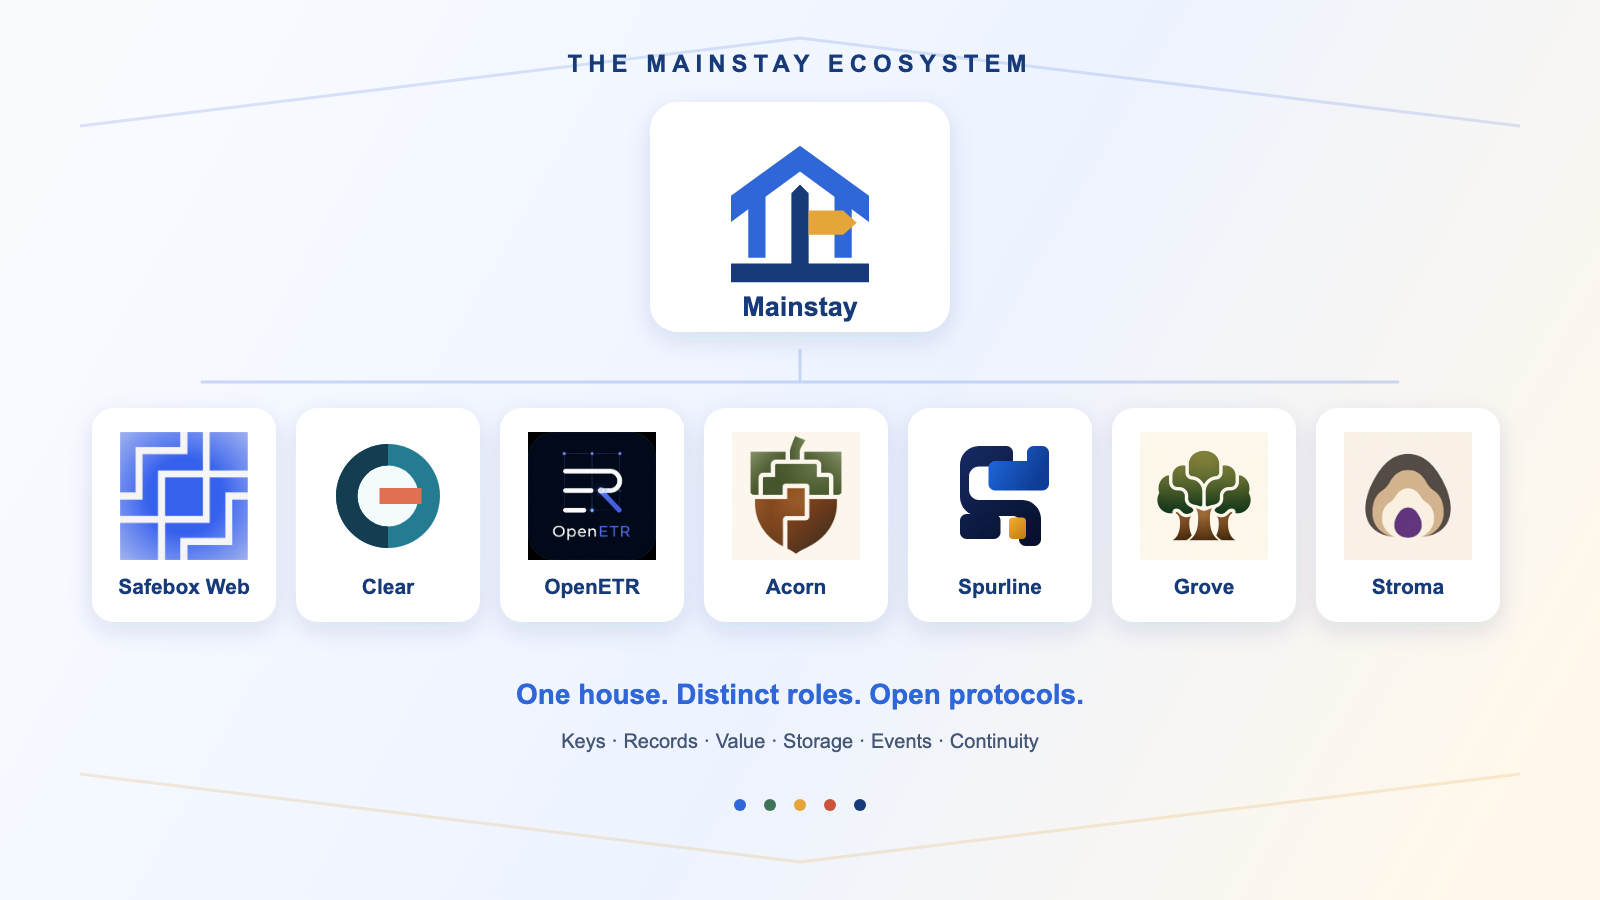
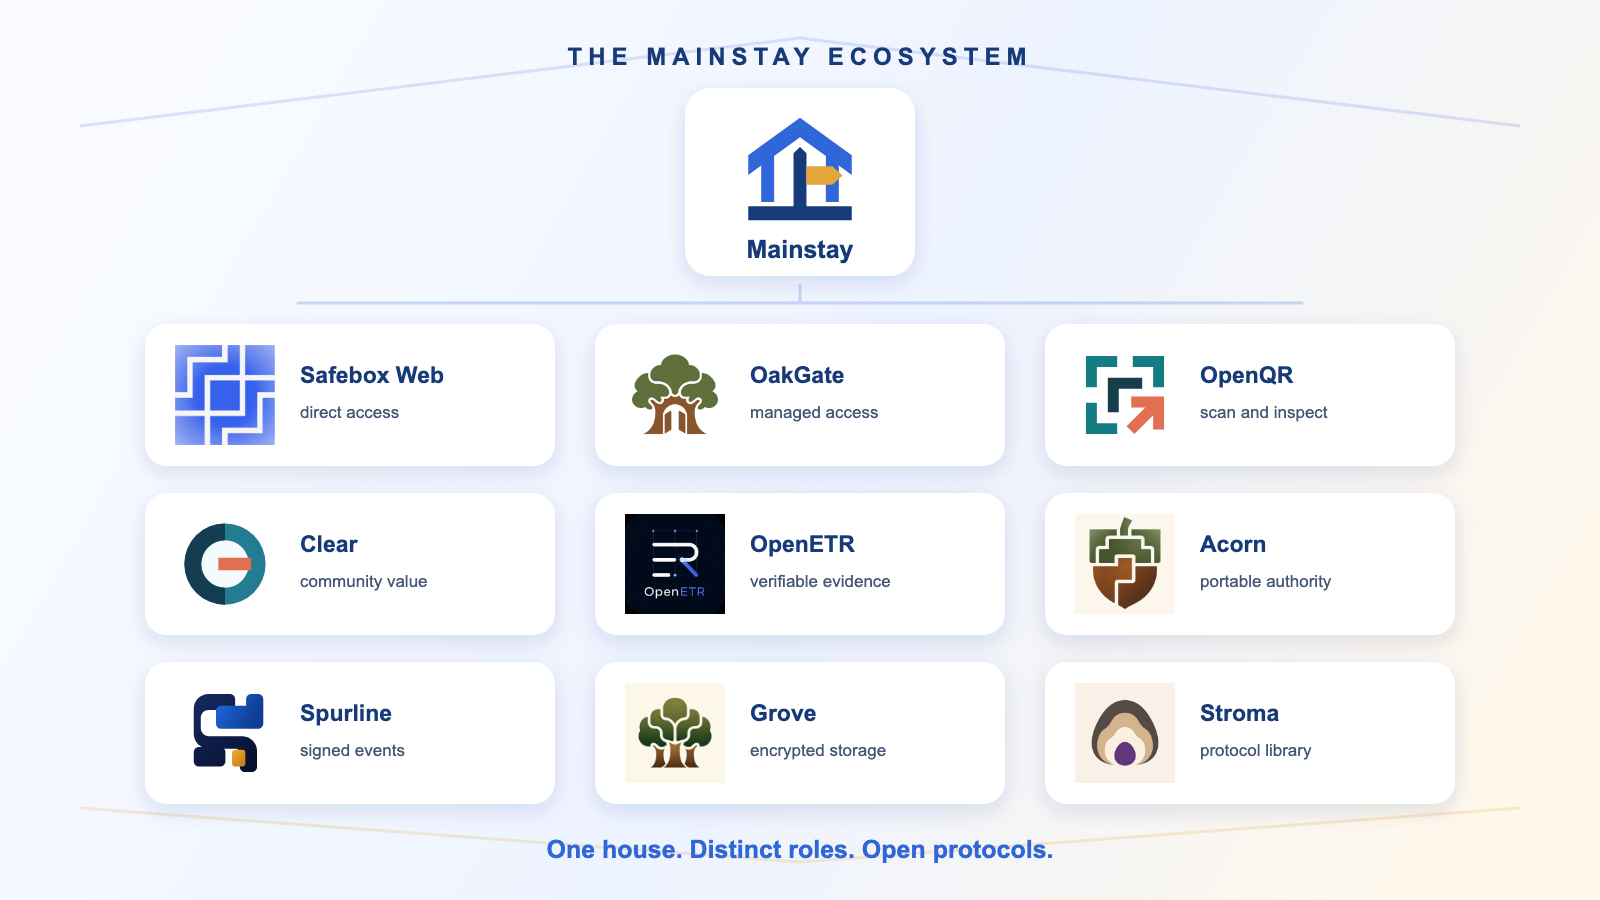
docs add new product family members

diff --git a/website/product-family.md b/website/product-family.md
@@ -123,6 +123,40 @@ evidence, derived state, and external recognition distinct.
 
 </article>
 
+<article class="product-card" markdown>
+
+<a href="https://trbouma.github.io/openqr/" aria-label="Visit the OpenQR website">
+  <img src="../assets/openqr-logo.svg" alt="OpenQR">
+</a>
+
+## OpenQR
+
+The public acquisition and presentation surface for OpenETR evidence. OpenQR
+turns a printed QR code or digital link into a digest-verified artifact and its
+signed Anchor Records, while leaving authenticity, authority, and recognition
+to the applicable rulebook.
+
+[Visit OpenQR](https://trbouma.github.io/openqr/)
+
+</article>
+
+<article class="product-card" markdown>
+
+<a href="https://trbouma.github.io/oakgate/" aria-label="Visit the OakGate website">
+  <img src="../assets/oakgate-logo.png" alt="OakGate">
+</a>
+
+## OakGate
+
+A managed entrance to Acorn-backed safeboxes. OakGate provides familiar
+Keycloak sign-in today and is building the custodial storage, recovery, and
+Go Independent path needed to let a person later assume direct responsibility
+for the same safebox.
+
+[Visit OakGate](https://trbouma.github.io/oakgate/)
+
+</article>
+
 </div>
 
 ## How the pieces fit
@@ -133,8 +167,11 @@ evidence, derived state, and external recognition distinct.
                               |
              +----------------+----------------+
              |                |                |
-       Safebox Web         Acorn            Clear
-         user flows    portable authority   local mint
+       Safebox Web         OakGate           Clear
+       direct access    managed access      local mint
+             |                |                |
+             +------------ Acorn -------------+
+                       portable authority
                               |
                         +-----+-----+
                         |           |
@@ -148,7 +185,9 @@ evidence, derived state, and external recognition distinct.
 
                 Mainstay <----> OpenETR
              evidence and derived state
-       artifacts, control history, recognition
+                              |
+                           OpenQR
+                  scan, resolve, and inspect
 ```
 
 Mainstay discovers available services and explains their state in plain
@@ -162,6 +201,18 @@ consequential state can be derived under defined rules. Mainstay can present an
 exact Digital Artifact, its evidence, and the resulting state while leaving
 recognition and effect with the people, organizations, and authorities relying
 on it.
+
+OpenQR makes that evidence approachable at the point of use. It resolves a QR
+or GS1 Digital Link, verifies exact artifact bytes and signed anchors, and
+presents the result for inspection. It does not decide whether an issuer is
+authorized, a product is authentic, or a record has legal or community effect.
+
+OakGate and Safebox Web offer different access and custody choices around
+Acorn. Safebox Web does not retain a user's signing key. OakGate deliberately
+takes on a managed relationship: its sign-in foundation works today, while
+Acorn integration, custodial recovery, and the Go Independent exit process are
+still under construction. Those responsibilities must be explicit rather than
+blurred into a generic login experience.
 
 Stroma is not another application or hosted infrastructure service. It is the
 small protocol layer Acorn uses to speak Nostr without importing social-client

diff --git a/docs/MAINSTAY-HOUSE-STYLE.md b/docs/MAINSTAY-HOUSE-STYLE.md
@@ -30,10 +30,10 @@ The family contains four different kinds of component:
 
 | Kind | Components | Applicable service requirements |
 | --- | --- | --- |
-| User and control-plane applications | Mainstay Local, Safebox Web | Human interface, operational health, clear authority boundaries |
+| User and control-plane applications | Mainstay Local, Safebox Web, OakGate | Human interface, operational health, clear authority and custody boundaries |
 | Independently addressable services | Clear, Grove, Spurline | Service identity, health and information surfaces, persistent identity binding |
 | Embedded protocol components | Acorn, Stroma | Package, documentation, security and boundary conventions; no network service identity merely for being imported |
-| Adjacent protocol applications | OpenETR | Shared evidence, recognition, presentation and deployment conventions without implying that OpenETR is part of the local runtime bundle |
+| Adjacent protocol applications | OpenETR, OpenQR | Shared evidence, recognition, presentation and deployment conventions without implying that either application is part of the local runtime bundle |
 
 Acorn identities identify Acorns that control keys and resources. They are not
 identities for the Acorn Python package. Stroma is a protocol library and does
@@ -86,6 +86,8 @@ Each product retains a distinct palette:
 | Clear | water teal and coral; bounded issuance and redemption |
 | Stroma | violet and stone; layered protocol structure |
 | OpenETR | blue, gold and neutral document tones; independently verifiable evidence |
+| OpenQR | teal, record ink and coral; acquisition and resolution |
+| OakGate | olive and oak brown; a welcoming managed entrance |
 
 Shared style does not mean recoloring every product Mainstay blue. Logos,
 palettes and metaphors remain specific to each responsibility. Operational
@@ -538,6 +540,8 @@ milestones because they carry policy or value consequences.
 | Safebox Acorn | Strong protocol and authority boundary | No runtime-service changes apply | Continue release hardening and staged Stroma migration |
 | Stroma | Strong narrow protocol boundary and shared FIPS derivation | No runtime-service changes apply | Continue protocol hardening; no service identity is required for the library |
 | OpenETR | Strong evidence, consequential-state and recognition boundaries | Adjacent family scope is explicit; voice, multi-stage container and standalone lifecycle now follow the shared conventions | Continue verifier, retrieval, policy-adapter and domain-profile hardening |
+| OpenQR | Strong resolver, artifact-integrity and recognition boundaries | Public checking, interactive registration, verified retrieval and GS1 integration are documented | Continue operational hardening and stabilize the OpenETR identity adapter |
+| OakGate | Clear managed-access and custody direction | FastAPI, Keycloak sign-in, project-status and Go Independent boundaries are documented | Complete Acorn integration, protected custody, recovery and the exit workflow |
 
 ### Findings retained as explicit gaps
 

diff --git a/website/index.md b/website/index.md
@@ -173,13 +173,13 @@ mesh.
 ## One house, distinct roles
 
 Mainstay is the unified local operating context. Within it, Clear and OpenETR
-create new practical value, Safebox Web gives people access to that value, and
-the supporting components provide the focused capabilities that make the whole
-system work. Each remains independently useful and replaceable.
+create new practical value; Safebox Web, OakGate, and OpenQR provide distinct
+ways to enter, use, and inspect the system; and the supporting components make
+the whole system work. Each remains independently useful and replaceable.
 
 <figure class="mainstay-ecosystem-graphic">
   <a href="assets/mainstay-ecosystem.svg">
-    <img src="assets/mainstay-ecosystem.png" alt="The Mainstay ecosystem: Mainstay, Safebox Web, Clear, OpenETR, Acorn, Spurline, Grove, and Stroma">
+    <img src="assets/mainstay-ecosystem.png" alt="The Mainstay ecosystem: Mainstay, Safebox Web, OakGate, OpenQR, Clear, OpenETR, Acorn, Spurline, Grove, and Stroma">
   </a>
   <figcaption><a href="assets/mainstay-ecosystem.svg">View the full-size Mainstay ecosystem graphic</a></figcaption>
 </figure>
@@ -199,12 +199,24 @@ system work. Each remains independently useful and replaceable.
 
 </div>
 
-### Access
+### Access and inspection
 
-<a class="family-access" href="https://trbouma.github.io/safebox-web/">
+<div class="family-value-grid" markdown>
+
+<a class="family-feature" href="https://trbouma.github.io/safebox-web/">
   <img src="assets/safebox-logo.png" alt="Safebox Web">
   <span><strong>Safebox Web</strong><small>The application through which people use records, payments, identity, and recovery.</small></span>
 </a>
+<a class="family-feature" href="https://trbouma.github.io/oakgate/">
+  <img src="assets/oakgate-logo.png" alt="OakGate">
+  <span><strong>OakGate</strong><small>Familiar sign-in for a managed safebox, with custody and independence features under construction.</small></span>
+</a>
+<a class="family-feature" href="https://trbouma.github.io/openqr/">
+  <img src="assets/openqr-logo.svg" alt="OpenQR">
+  <span><strong>OpenQR</strong><small>Scan, resolve, retrieve, and inspect exact artifacts and their signed evidence.</small></span>
+</a>
+
+</div>
 
 ### Supporting capabilities
 

diff --git a/website/project-status.md b/website/project-status.md
@@ -19,6 +19,10 @@ sibling products fit together and which parts are still under construction.
 - Spurline provides a tested local Nostr relay foundation.
 - Clear provides an experimental non-Lightning Cashu mint for bounded local
   currencies.
+- OpenQR provides a working public resolver, artifact checker, and registration
+  surface for OpenETR anchors, with optional verified artifact retrieval.
+- OakGate provides a working FastAPI and Keycloak sign-in foundation for a
+  managed safebox experience.
 - Mainstay provides an interactive installer, recovery workflow, service-health
   dashboard, and integrated Docker Compose deployment.
 - Mainstay and Lockbox product principles, continuity modes, and component
@@ -31,6 +35,8 @@ sibling products fit together and which parts are still under construction.
 - bring the current Safebox Web experience toward the Mainstay application model;
 - integrate local Spurline and Grove paths;
 - add Clear currency discovery without combining balances or issuers;
+- complete OakGate's Acorn integration, custodial recovery, and Go Independent
+  workflow;
 - define the first FreeBSD Lockbox service profile;
 - design TROPIC01 and keypad authority boundaries; and
 - create end-to-end local and community continuity tests.
@@ -44,6 +50,9 @@ sibling products fit together and which parts are still under construction.
 - [Grove](https://github.com/trbouma/grove)
 - [Spurline](https://github.com/trbouma/spurline)
 - [Clear](https://github.com/trbouma/clear)
+- [OpenETR](https://github.com/trbouma/openetr)
+- [OpenQR](https://github.com/trbouma/openqr)
+- [OakGate](https://github.com/trbouma/oakgate)
 
 !!! warning "Early-stage work"
     The product family is experimental. Do not rely on it for critical records,
